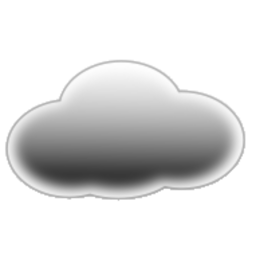
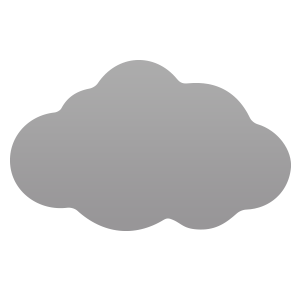
Fixes and news
Fixed infinite wait on location with a space in the name, added word "gradi" on all responses, modified getIcon() so it now can choose between sun icon or moon icon.
Added more icons and changed folder structure

diff --git a/main.py b/main.py
@@ -73,6 +73,9 @@ class ForecastPage(Screen):
         self.sentence = self.manager.get_screen("main").sentence # Prendo la frase da esaminare
 
         self.location = self.extractLocation(self.sentence)
+        if " " in self.location:
+            self.location.replace(" ", "+")
+
         self.day, self.hour = self.extractTime(self.sentence)
 
         print(self.sentence)
@@ -113,14 +116,14 @@ class ForecastPage(Screen):
     def getToday(self, result_today, result_forecast):
         print(self.sentence)
 
-        self.ids['today_icon'].source = self.getIcon(result_today['weather'][0]['description'])
+        self.ids['today_icon'].source = self.getIcon(result_today['weather'][0]['description'], result_today['weather'][0]['main'], result_today['dt'])
         
         for x in result_forecast['list']:
             info = HourlyForecast()
             panel = MDExpansionPanel(
                 content = info,
                 
-                icon = self.getIcon(x['weather'][0]['description']),
+                icon = self.getIcon(x['weather'][0]['description'], x['weather'][0]['main'], x['dt']),
                 panel_cls = MDExpansionPanelOneLine(
                     text = self.getDay(x['dt'])
                 ),
@@ -139,18 +142,18 @@ class ForecastPage(Screen):
         # Se ho una richiesta generale (senza orario) ad un giorno futuro diverso da oggi
         if self.hour == -1 and self.day != datetime.datetime.today().strftime("%A"):
             main_weather, main_temp = self.getGeneralWeather()
-            frase = f"{self.dayTranslate(self.day)} il tempo a {self.location} sarà {self.weatherTranslate(main_weather)} con una temperaturà media di {main_temp}"
+            frase = f"{self.dayTranslate(self.day)} il tempo a {self.location} sarà {self.weatherTranslate(main_weather)} con una temperaturà media di {main_temp} gradi"
         
         # Se ho una richiesta specifica (con orario) ad un giorno futuro diverso da oggi
         elif self.hour != -1 and self.day != datetime.datetime.today().strftime("%A"):
             main_weather, main_temp = self.getSpecificWeather()
-            frase = f"{self.dayTranslate(self.day)} il tempo a {self.location}, verso le {self.hour} sarà {self.weatherTranslate(main_weather)} con una temperaturà di {main_temp}"
+            frase = f"{self.dayTranslate(self.day)} il tempo a {self.location}, verso le {self.hour} sarà {self.weatherTranslate(main_weather)} con una temperaturà di {main_temp} gradi"
             
         # Se ho una richiesta generale (senza orario) per oggi
         elif self.hour == -1 and self.day == datetime.datetime.today().strftime("%A"):
             main_weather = self.request_today.result['weather'][0]['main']
             main_temp = round(self.request_today.result['main']['temp'])
-            frase = f"Oggi il tempo a {self.location} è {self.weatherTranslate(main_weather)} con una temperaturà di {main_temp}"
+            frase = f"Oggi il tempo a {self.location} è {self.weatherTranslate(main_weather)} con una temperaturà di {main_temp} gradi"
 
         # Se ho una richiesta specifica (con orario) per oggi
         elif self.hour != -1 and self.day == datetime.datetime.today().strftime("%A"):
@@ -158,7 +161,7 @@ class ForecastPage(Screen):
                 frase = f"Le {self.hour} sono già passate, prova con un altro orario"
             else:
                 main_weather, main_temp = self.getSpecificWeather()
-                frase = f"Oggi il tempo a {self.location}, verso le {self.hour} sarà {self.weatherTranslate(main_weather)} con una temperaturà di {main_temp}"
+                frase = f"Oggi il tempo a {self.location}, verso le {self.hour} sarà {self.weatherTranslate(main_weather)} con una temperaturà di {main_temp} gradi"
 
         print(frase)
         tts.speak(frase)
@@ -361,9 +364,20 @@ class ForecastPage(Screen):
 
 
     #Funzione per ricavare l'icona dalla cartella "media"
-    def getIcon(self, descritpion):
-        return "media/" + descritpion.replace(" ", "_") + ".png"
-
+    def getIcon(self, descritpion, main, timestamp):
+        time = str(datetime.datetime.fromtimestamp(timestamp))[11:16]
+        if main == "Thunderstorm":
+            return "media/thunderstorm.png"
+        elif main == "Drizzle":
+            return "media/rain.png"
+        elif descritpion in ("clear sky", "few clouds", "light rain"):
+            if time >= "06:00" and time <= "18:00":
+                return "media/day" + descritpion.replace(" ", "_") + ".png"
+            else:
+                return "media/night" + descritpion.replace(" ", "_") + ".png"
+        else:
+            return "media/" + descritpion.replace(" ", "_").replace("/", "_") + ".png"
+         
 
     # Funzione che traduce i timestamp in giorni della settimana
     def getDay(self,timestamp):
